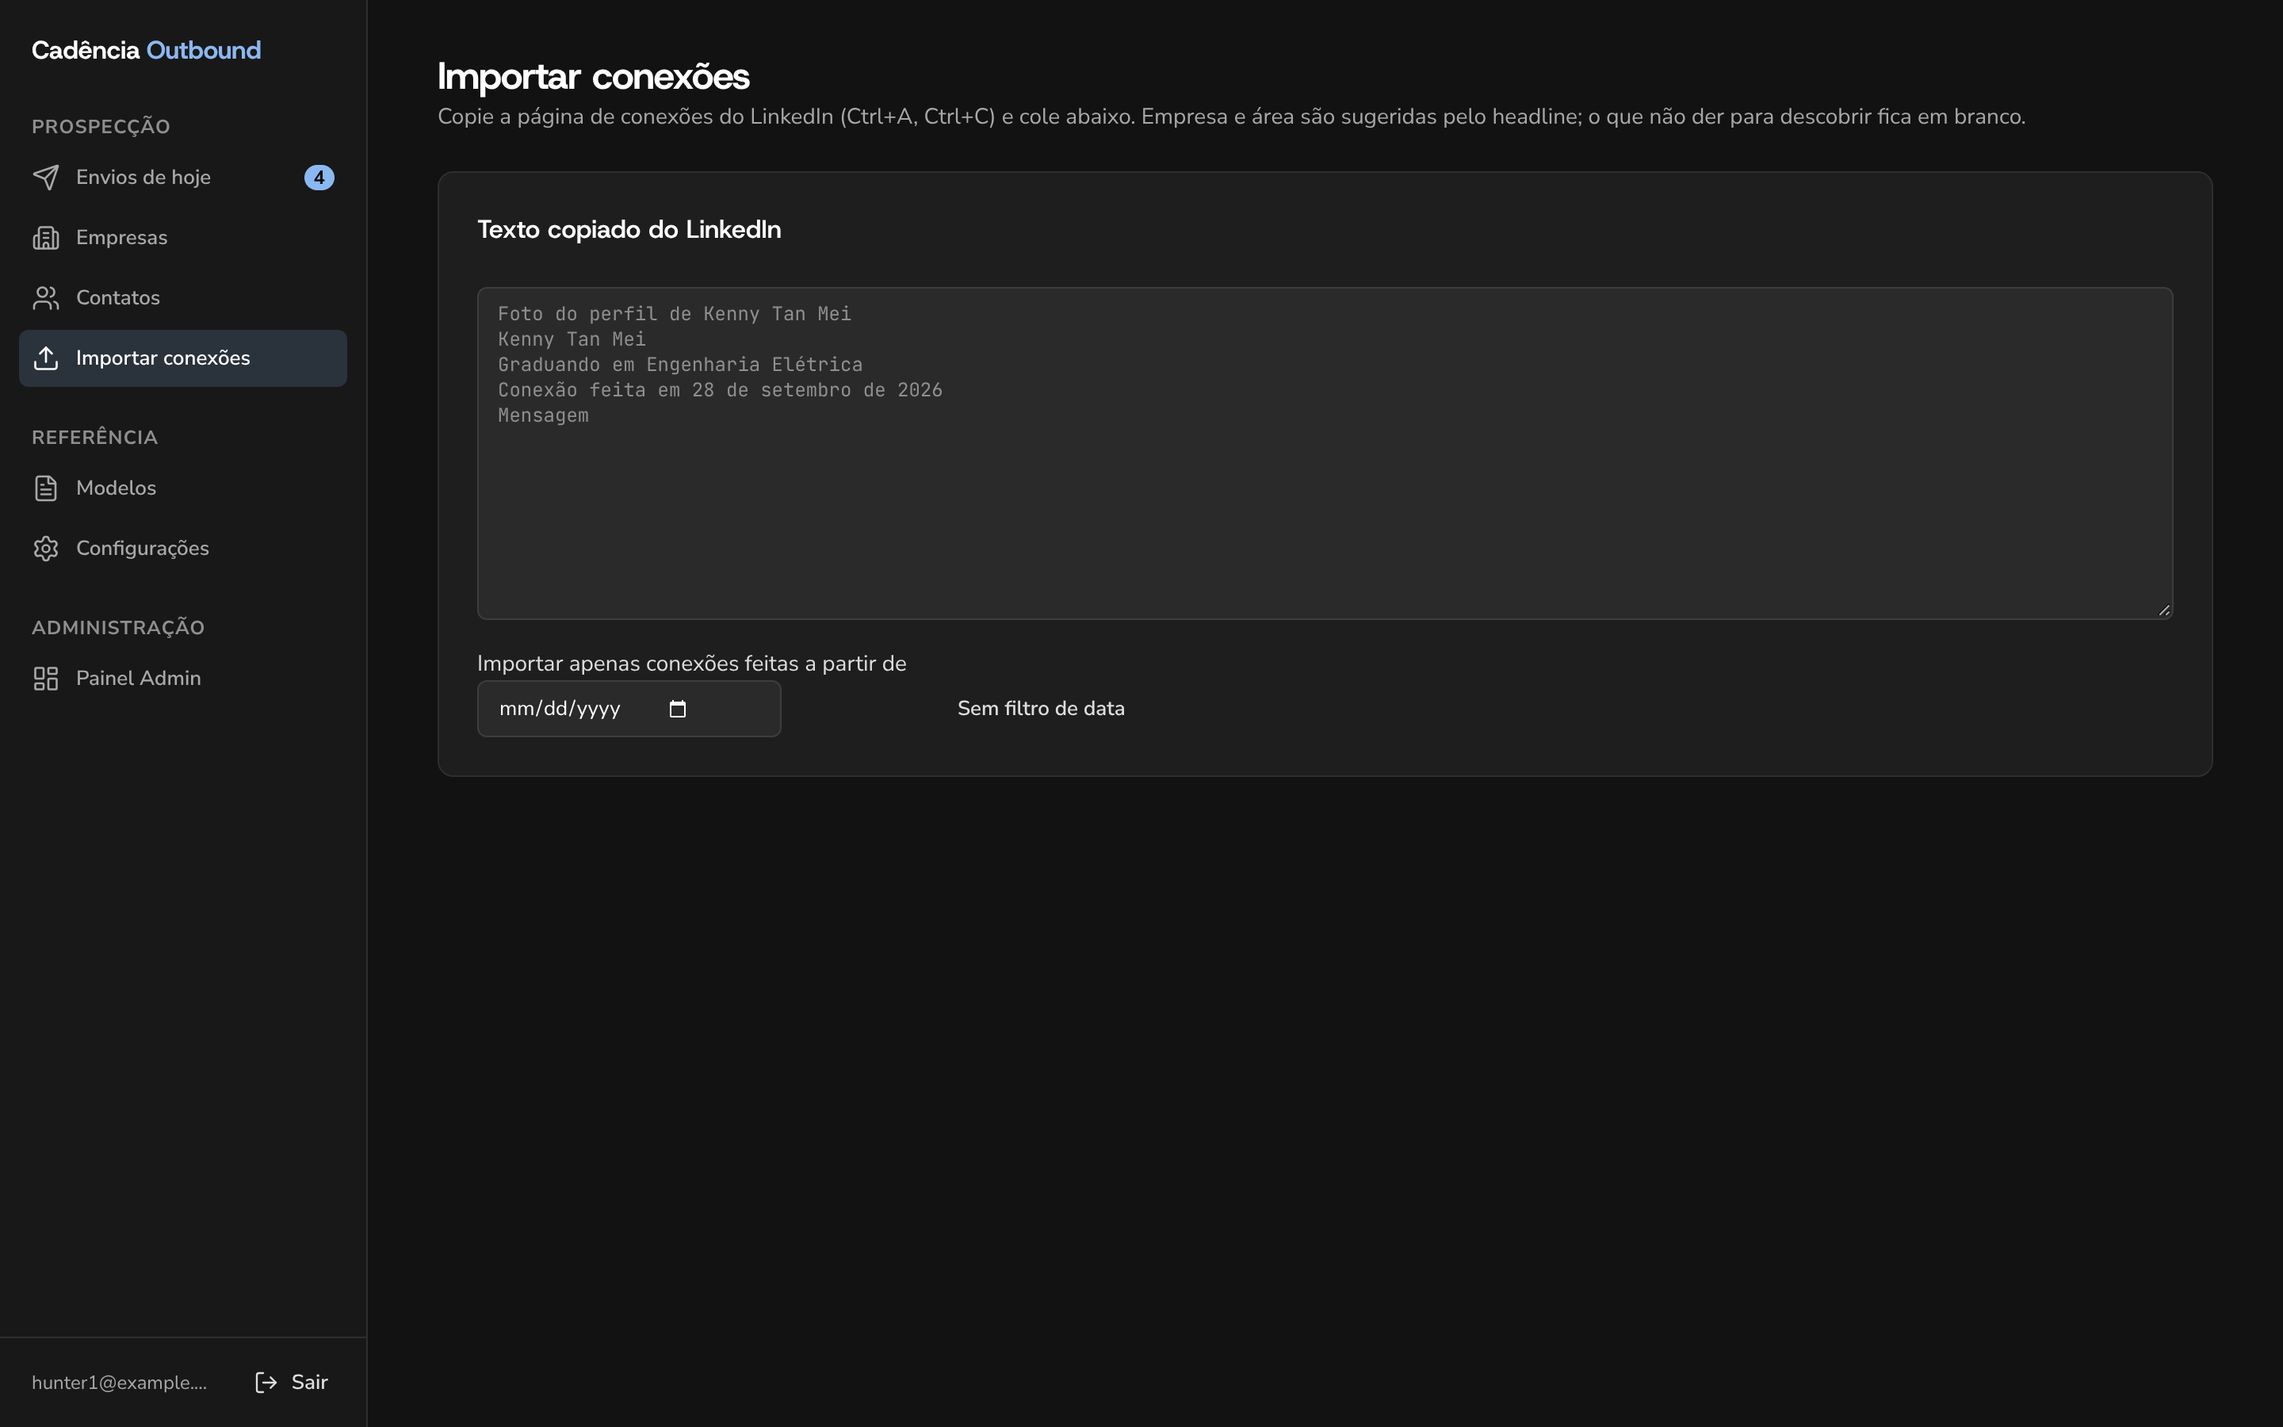
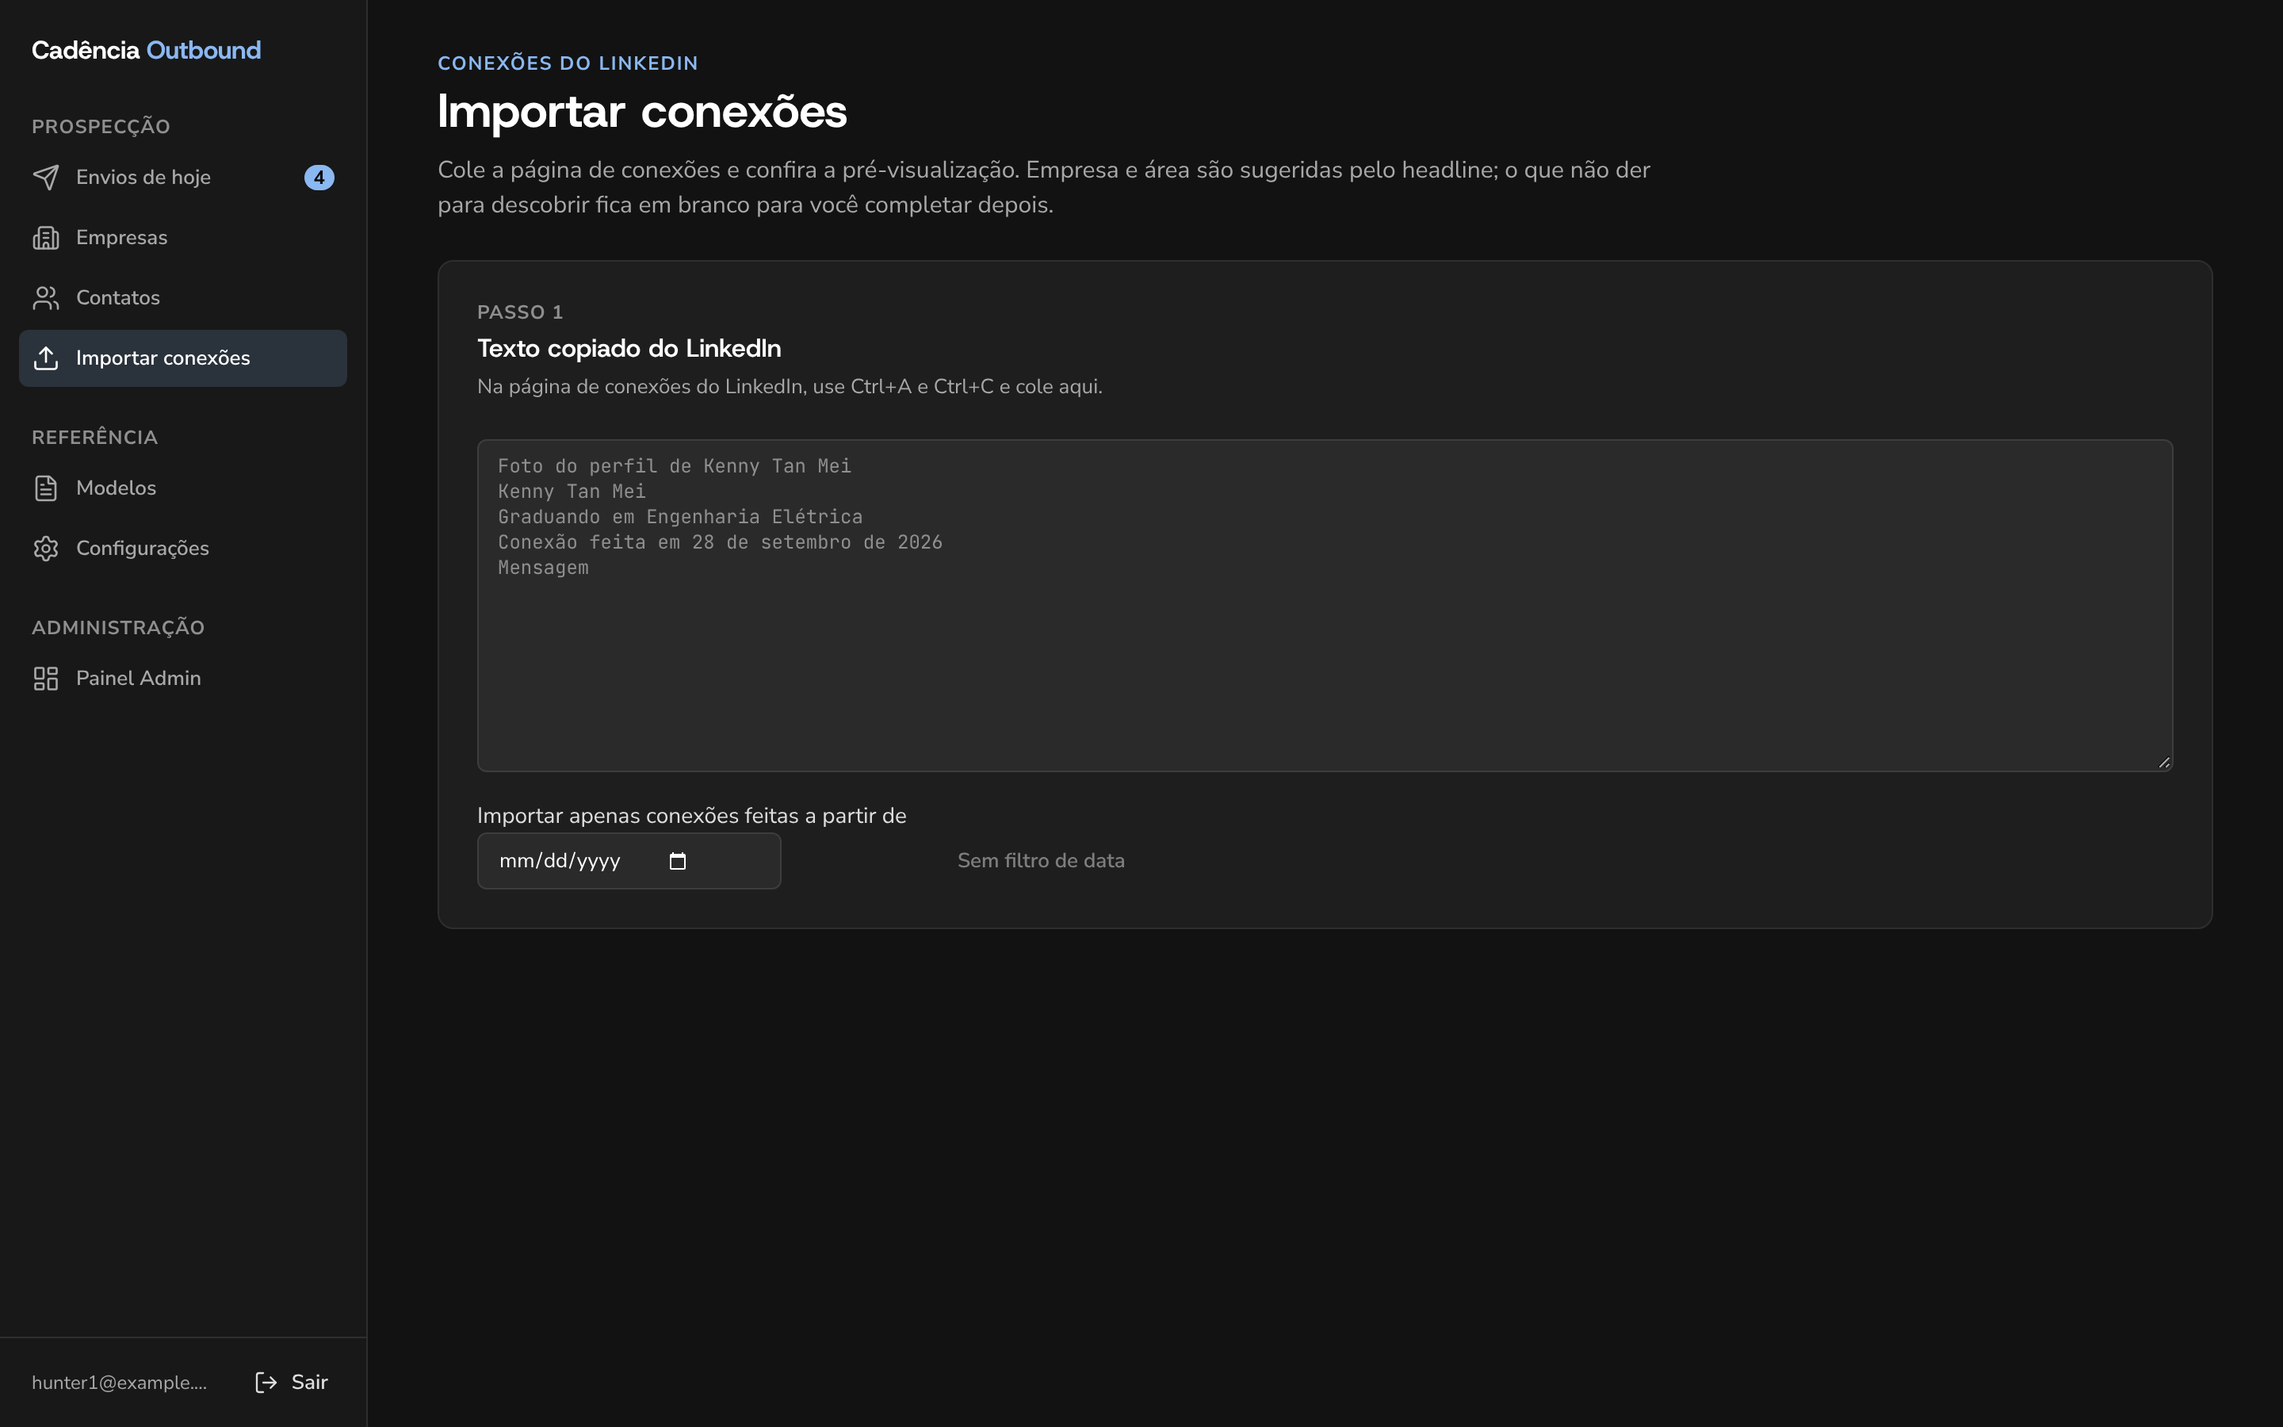
feat(ui): redesenha Importar conexões com a prévia paginada
Cabeçalho no padrão do DESIGN.md e a tela em dois passos: colar o texto
do LinkedIn e conferir a pré-visualização. A prévia mostra quantos são
novos, já cadastrados e fora do filtro de data, usa os selos do design
system e passa a paginar de 50 em 50 (antes renderizava tudo); trocar o
texto ou o filtro volta para a primeira página. A paginação compartilhada
ganha os tokens novos. Teste novo para a paginação e a contagem do filtro;
o gerador de capturas ganha a prévia com texto colado.

Claude-Session: https://claude.ai/code/session_0137A672FZVr8kUgR711yTZV

diff --git a/src/components/importar/ImportPreview.tsx b/src/components/importar/ImportPreview.tsx
@@ -1,4 +1,6 @@
+import { useState } from "react";
 import { CompanySelect } from "@/components/CompanySelect";
+import { TablePagination } from "@/components/TablePagination";
 import { Button } from "@/components/ui/button";
 import { Card, CardContent, CardHeader, CardTitle } from "@/components/ui/card";
 import {
@@ -12,6 +14,10 @@ import {
 import { formatBR } from "@/lib/cadencia";
 import type { Company } from "@/lib/empresas";
 import type { ImportRow } from "@/lib/importar";
+import { paginate } from "@/lib/paginate";
+
+/** Linhas por página na pré-visualização (o mesmo limite das outras tabelas). */
+const PAGE_SIZE = 50;
 
 /** Pré-visualização do que foi colado, com a empresa de cada linha e o botão de importar. */
 export function ImportPreview({
@@ -31,18 +37,41 @@ export function ImportPreview({
   busy: boolean;
   onImport: () => void;
 }) {
+  const [page, setPage] = useState(0);
+  const paged = paginate([...rows], page, PAGE_SIZE);
+  const duplicados = rows.filter((r) => r.duplicate).length;
+  const foraDoFiltro = rows.filter((r) => !r.duplicate && r.filteredOut).length;
+
   return (
     <Card>
-      <CardHeader className="flex-row items-center justify-between gap-2">
-        <CardTitle className="text-base">
-          Pré-visualização — {rows.length} detectados, {newCount} novos
-        </CardTitle>
+      <CardHeader className="flex-row items-start justify-between gap-4 space-y-0">
+        <div className="space-y-1">
+          <p className="text-caption font-bold tracking-wider text-subtle-foreground uppercase">
+            Passo 2
+          </p>
+          <CardTitle>
+            Pré-visualização — {rows.length} detectados, {newCount} novos
+          </CardTitle>
+          <div className="flex flex-wrap gap-2 pt-1">
+            <Contagem tone="novo">
+              {newCount} {newCount === 1 ? "novo" : "novos"}
+            </Contagem>
+            {duplicados > 0 && (
+              <Contagem tone="duplicado">
+                {duplicados} {duplicados === 1 ? "já cadastrado" : "já cadastrados"}
+              </Contagem>
+            )}
+            {foraDoFiltro > 0 && (
+              <Contagem tone="filtro">{foraDoFiltro} fora do filtro de data</Contagem>
+            )}
+          </div>
+        </div>
         <Button disabled={newCount === 0 || busy} onClick={onImport}>
           Importar novos contatos
         </Button>
       </CardHeader>
-      <CardContent>
-        <div className="overflow-x-auto rounded-lg border">
+      <CardContent className="space-y-3">
+        <div className="overflow-x-auto rounded-xl border">
           <Table className="table-dense">
             <TableHeader>
               <TableRow>
@@ -55,15 +84,15 @@ export function ImportPreview({
               </TableRow>
             </TableHeader>
             <TableBody>
-              {rows.map((r, i) => {
+              {paged.pageRows.map((r, i) => {
                 const novo = !r.duplicate && !r.filteredOut;
                 return (
-                  <TableRow key={`${r.name}-${i}`}>
-                    <TableCell className="font-medium">{r.name}</TableCell>
-                    <TableCell className="max-w-[520px] truncate text-muted-foreground">
+                  <TableRow key={`${r.name}-${page}-${i}`}>
+                    <TableCell className="font-semibold text-heading">{r.name}</TableCell>
+                    <TableCell className="max-w-[360px] truncate text-muted-foreground">
                       {r.headline || "—"}
                     </TableCell>
-                    <TableCell>{formatBR(r.connected_at)}</TableCell>
+                    <TableCell className="whitespace-nowrap">{formatBR(r.connected_at)}</TableCell>
                     <TableCell>
                       {novo && (
                         <>
@@ -73,18 +102,18 @@ export function ImportPreview({
                               value={companyOf(r)}
                               onChange={(id) => onCompany(r.key, id)}
                               emptyLabel="Sem empresa cadastrada"
-                              className="w-44"
+                              className="h-8 w-44"
                             />
                           )}
                           {!companyOf(r) && (
-                            <span className="block text-xs text-muted-foreground">
+                            <span className="block text-caption text-muted-foreground">
                               {r.companyText ? `${r.companyText.company} (do headline)` : "—"}
                             </span>
                           )}
                         </>
                       )}
                     </TableCell>
-                    <TableCell className="whitespace-nowrap text-xs text-muted-foreground">
+                    <TableCell className="whitespace-nowrap text-muted-foreground">
                       {novo ? (r.area ?? "—") : ""}
                     </TableCell>
                     <TableCell>
@@ -96,27 +125,37 @@ export function ImportPreview({
             </TableBody>
           </Table>
         </div>
+        <TablePagination paged={paged} onPage={setPage} noun="conexões" />
       </CardContent>
     </Card>
   );
 }
 
-function RowStatus({ row }: { row: ImportRow }) {
-  if (row.duplicate)
-    return (
-      <span className="rounded-full bg-muted px-2 py-0.5 text-caption font-medium text-muted-foreground">
-        Já cadastrado
-      </span>
-    );
-  if (row.filteredOut)
-    return (
-      <span className="rounded-full bg-warning-soft px-2 py-0.5 text-caption font-semibold text-warning-text">
-        {row.noDate ? "Sem data — fora do filtro" : "Antes da data escolhida"}
-      </span>
-    );
+const TONE = {
+  novo: "bg-success-soft text-success",
+  duplicado: "border border-input text-muted-foreground",
+  filtro: "bg-warning-soft text-warning-text",
+} as const;
+
+function Contagem({ tone, children }: { tone: keyof typeof TONE; children: React.ReactNode }) {
   return (
-    <span className="rounded-full bg-whatsapp-soft px-2 py-0.5 text-caption font-medium text-whatsapp">
-      Novo
+    <span className={`rounded-full px-2.5 py-0.5 text-caption font-semibold ${TONE[tone]}`}>
+      {children}
+    </span>
+  );
+}
+
+function RowStatus({ row }: { row: ImportRow }) {
+  const [tone, label] = row.duplicate
+    ? (["duplicado", "Já cadastrado"] as const)
+    : row.filteredOut
+      ? (["filtro", row.noDate ? "Sem data — fora do filtro" : "Antes da data escolhida"] as const)
+      : (["novo", "Novo"] as const);
+  return (
+    <span
+      className={`rounded-full px-2 py-0.5 text-caption font-semibold whitespace-nowrap ${TONE[tone]}`}
+    >
+      {label}
     </span>
   );
 }

diff --git a/e2e/screenshots.spec.ts b/e2e/screenshots.spec.ts
@@ -7,13 +7,34 @@ import { seed, test, TODAY } from "./helpers";
 /** Altura máxima da foto (px CSS): listas longas não precisam aparecer inteiras. */
 const MAX_HEIGHT = 2400;
 
-type Shot = { name: string; path: string; tab?: string; seed?: number };
+type Shot = {
+  name: string;
+  path: string;
+  tab?: string;
+  seed?: number;
+  /** Texto colado no primeiro campo antes da foto (ex.: a pré-visualização da importação). */
+  paste?: string;
+};
+
+/** Conexões de exemplo: uma empresa citada no headline, uma cadastrada e uma sem pistas. */
+const COLADO = [
+  "Paula Reis",
+  "Gerente de Marketing no Itaú | Ex-Ambev",
+  "Conexão feita em 10 de novembro de 2026",
+  "Rui Alves",
+  "Diretor Comercial na Delta",
+  "Conexão feita em 11 de novembro de 2026",
+  "Sara Lins",
+  "Sócia-fundadora",
+  "Conexão feita em 11 de novembro de 2026",
+].join("\n");
 
 const SHOTS: Shot[] = [
   { name: "02-hoje", path: "/hoje", seed: 60 },
   { name: "03-contatos", path: "/contatos", seed: 60 },
   { name: "04-empresas", path: "/empresas" },
   { name: "05-importar", path: "/importar" },
+  { name: "05-importar-previa", path: "/importar", paste: COLADO },
   { name: "06-modelos", path: "/modelos" },
   { name: "08-configuracoes", path: "/configuracoes" },
   { name: "09-painel-indicadores", path: "/painel", tab: "Indicadores" },
@@ -61,6 +82,7 @@ for (const [dir, device] of Object.entries(VIEWPORTS)) {
       test(shot.name, async ({ page }) => {
         if (shot.seed) await seed(shot.seed);
         await page.goto(shot.path);
+        if (shot.paste) await page.getByRole("textbox").first().fill(shot.paste);
         if (shot.tab) {
           // Pelo teclado: no celular as últimas abas do painel ficam fora da tela.
           await page.getByRole("tab", { name: shot.tab }).focus();

diff --git a/src/components/importar/PasteCard.tsx b/src/components/importar/PasteCard.tsx
@@ -1,5 +1,5 @@
 import { Button } from "@/components/ui/button";
-import { Card, CardContent, CardHeader, CardTitle } from "@/components/ui/card";
+import { Card, CardContent, CardDescription, CardHeader, CardTitle } from "@/components/ui/card";
 import { Input } from "@/components/ui/input";
 import { Label } from "@/components/ui/label";
 import { Textarea } from "@/components/ui/textarea";
@@ -18,13 +18,20 @@ export function PasteCard({
 }) {
   return (
     <Card>
-      <CardHeader>
-        <CardTitle className="text-base">Texto copiado do LinkedIn</CardTitle>
+      <CardHeader className="space-y-1">
+        <p className="text-caption font-bold tracking-wider text-subtle-foreground uppercase">
+          Passo 1
+        </p>
+        <CardTitle>Texto copiado do LinkedIn</CardTitle>
+        <CardDescription>
+          Na página de conexões do LinkedIn, use Ctrl+A e Ctrl+C e cole aqui.
+        </CardDescription>
       </CardHeader>
       <CardContent className="space-y-4">
         <Textarea
           rows={12}
-          className="font-mono text-xs"
+          aria-label="Texto copiado do LinkedIn"
+          className="font-mono text-caption"
           placeholder={
             "Foto do perfil de Kenny Tan Mei\nKenny Tan Mei\nGraduando em Engenharia Elétrica\nConexão feita em 28 de setembro de 2026\nMensagem"
           }
@@ -42,7 +49,7 @@ export function PasteCard({
               onChange={(e) => onFromDate(e.target.value)}
             />
           </div>
-          <Button variant="ghost" onClick={() => onFromDate("")}>
+          <Button variant="ghost" disabled={!fromDate} onClick={() => onFromDate("")}>
             Sem filtro de data
           </Button>
         </div>

diff --git a/e2e/importar.spec.ts b/e2e/importar.spec.ts
@@ -50,4 +50,25 @@ test.describe("Importar conexões", () => {
     expect(rows[2]).not.toHaveProperty("company");
     expect(rows[2]).not.toHaveProperty("sector");
   });
+
+  test("pagina a pré-visualização e conta o que fica fora do filtro de data", async ({ page }) => {
+    // 55 conexões de 11/11 e 5 de 10/11 (nomes únicos, sem empresa no headline).
+    const linhas = Array.from({ length: 60 }, (_, i) => {
+      const dia = i < 55 ? 11 : 10;
+      return [`Pessoa Teste ${i + 1}`, "Analista", `Conexão feita em ${dia} de novembro de 2026`];
+    }).flat();
+    await page.goto("/importar");
+    await page.getByRole("textbox", { name: "Texto copiado do LinkedIn" }).fill(linhas.join("\n"));
+    await expect(page.getByText("60 detectados, 60 novos")).toBeVisible();
+    await expect(page.getByText("1–50 de 60 conexões")).toBeVisible();
+    await expect(page.locator("main tbody tr")).toHaveCount(50);
+    await page.getByRole("button", { name: "Próxima" }).click();
+    await expect(page.locator("main tbody tr")).toHaveCount(10);
+
+    await page.getByLabel("Importar apenas conexões feitas a partir de").fill("2026-11-11");
+    await expect(page.getByText("60 detectados, 55 novos")).toBeVisible();
+    await expect(page.getByText("5 fora do filtro de data")).toBeVisible();
+    // Trocar o filtro volta para a primeira página.
+    await expect(page.getByText("1–50 de 60 conexões")).toBeVisible();
+  });
 });

diff --git a/src/routes/_authenticated/importar.tsx b/src/routes/_authenticated/importar.tsx
@@ -63,16 +63,18 @@ function Importar() {
 
   return (
     <div className="space-y-6">
-      <div>
-        <h1 className="text-2xl font-bold tracking-tight">Importar conexões</h1>
-        <p className="text-sm text-muted-foreground">
-          Copie a página de conexões do LinkedIn (Ctrl+A, Ctrl+C) e cole abaixo. Empresa e área são
-          sugeridas pelo headline; o que não der para descobrir fica em branco.
+      <header>
+        <p className="eyebrow">Conexões do LinkedIn</p>
+        <h1 className="mt-1 text-title font-bold">Importar conexões</h1>
+        <p className="mt-2 max-w-3xl text-body text-muted-foreground">
+          Cole a página de conexões e confira a pré-visualização. Empresa e área são sugeridas pelo
+          headline; o que não der para descobrir fica em branco para você completar depois.
         </p>
-      </div>
+      </header>
       <PasteCard text={text} onText={setText} fromDate={fromDate} onFromDate={setFromDate} />
       {rows.length > 0 && (
         <ImportPreview
+          key={`${rows.length}-${fromDate}`}
           rows={rows}
           newCount={toImport.length}
           companies={companies ?? []}

diff --git a/src/components/TablePagination.tsx b/src/components/TablePagination.tsx
@@ -13,13 +13,13 @@ export function TablePagination<T>({
 }) {
   if (paged.pageCount <= 1) return null;
   return (
-    <div className="flex items-center justify-end gap-2 text-sm text-muted-foreground">
+    <div className="flex items-center justify-end gap-2 text-dense text-muted-foreground">
       <span>
         {paged.from}–{paged.to} de {paged.total} {noun}
       </span>
       <Button
         size="sm"
-        variant="outline"
+        variant="secondary"
         disabled={paged.page === 0}
         onClick={() => onPage(paged.page - 1)}
       >
@@ -30,7 +30,7 @@ export function TablePagination<T>({
       </span>
       <Button
         size="sm"
-        variant="outline"
+        variant="secondary"
         disabled={paged.page >= paged.pageCount - 1}
         onClick={() => onPage(paged.page + 1)}
       >
